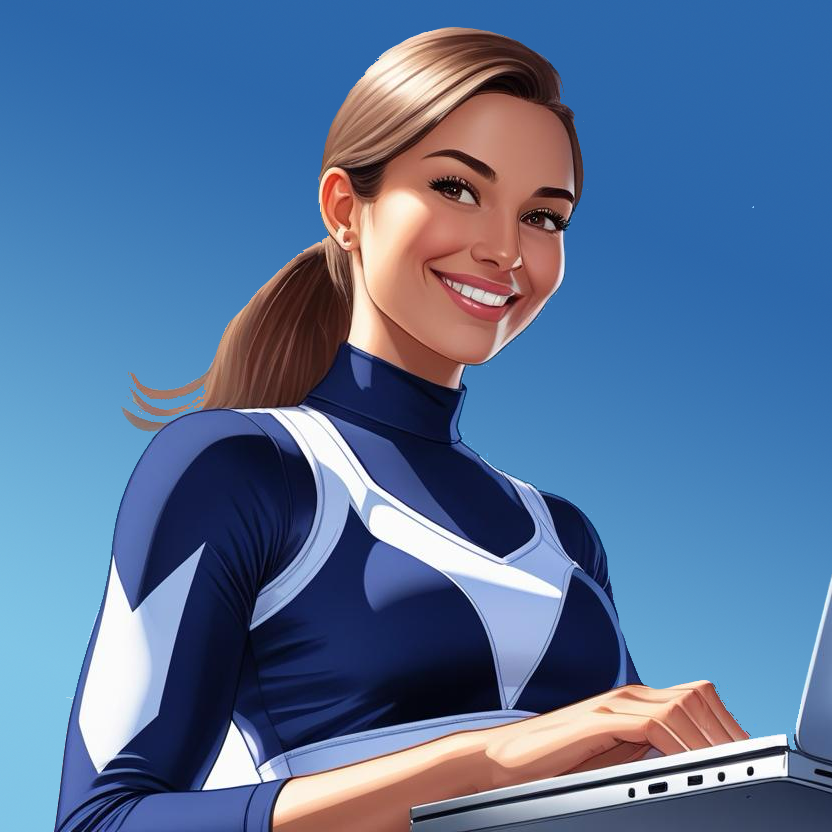
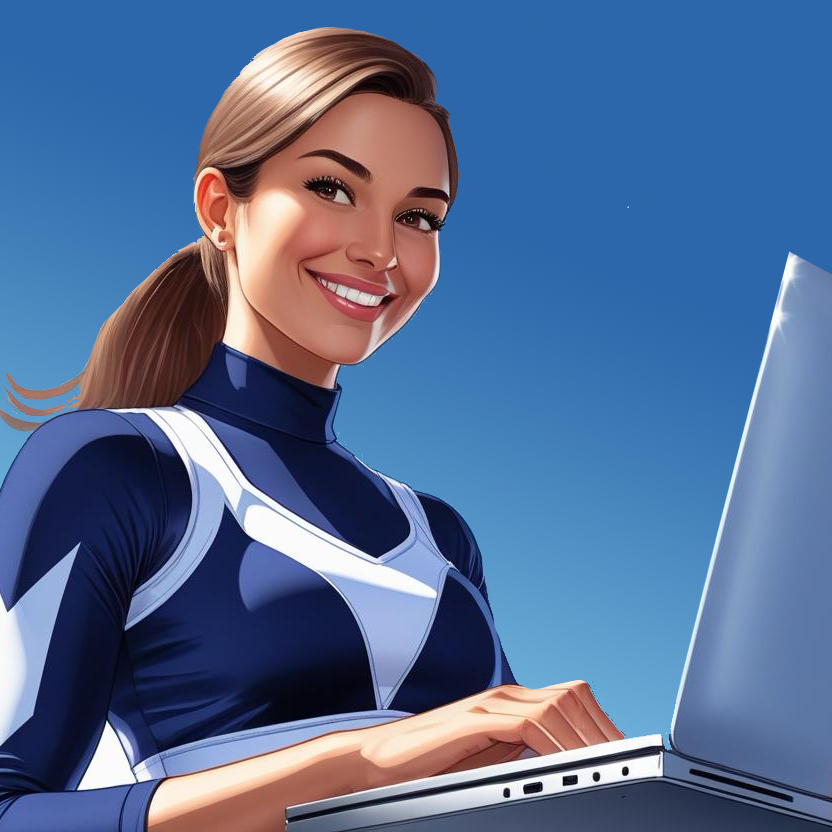
Updated Homepage aca-pic-1 image

diff --git a/index.html b/index.html
@@ -52,7 +52,7 @@
 											<li><a href="generic.html" class="button">Learn More</a></li>
 										</ul>
 									</div>
-									<span class="image"><img src="images/pic01.jpg" alt="" /></span>
+									<span class="image"><img src="images/aca-pic-1.png" alt="" /></span>
 								</div>
 							</section>
 
@@ -142,9 +142,9 @@
 				<!-- Footer -->
 					<footer id="footer">
 						<section>
-							<h2>ACA - Product Development</h2>
-							<p>Cheer Association or Club owner?<br />
-								We are looking to engage with a number of enthusiastic Cheerleaders to help shape the development and features of Allstar Cheer Admin.</p>
+							<h2>Allstar Cheer Admin - Get Involved</h2>
+							<p>Want to Help Shape Allstar Cheer Admin?<br />
+								We are looking for enthusiastic Cheerleaders to help shape the development and features. Please get in touch.</p>
 							<ul class="actions">
 								<li><a href="mailto:admin@allstarcheeradmin.com" class="button">Learn More</a></li>
 							</ul>
